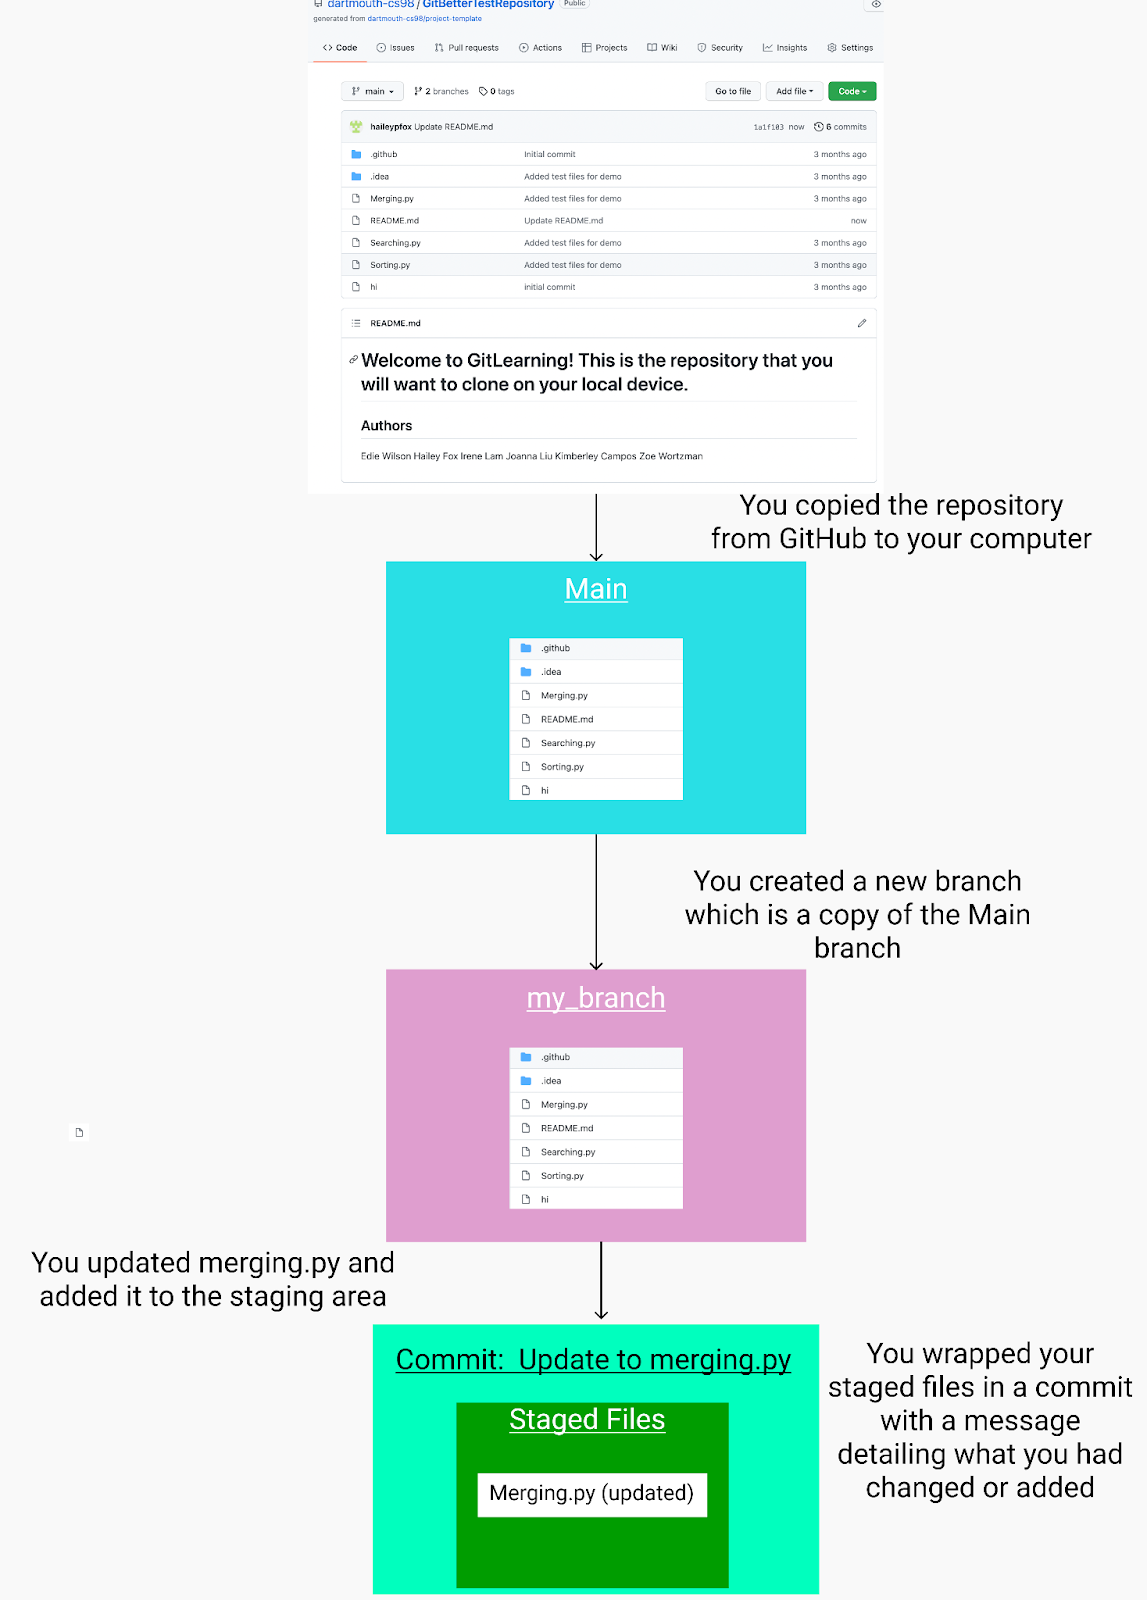
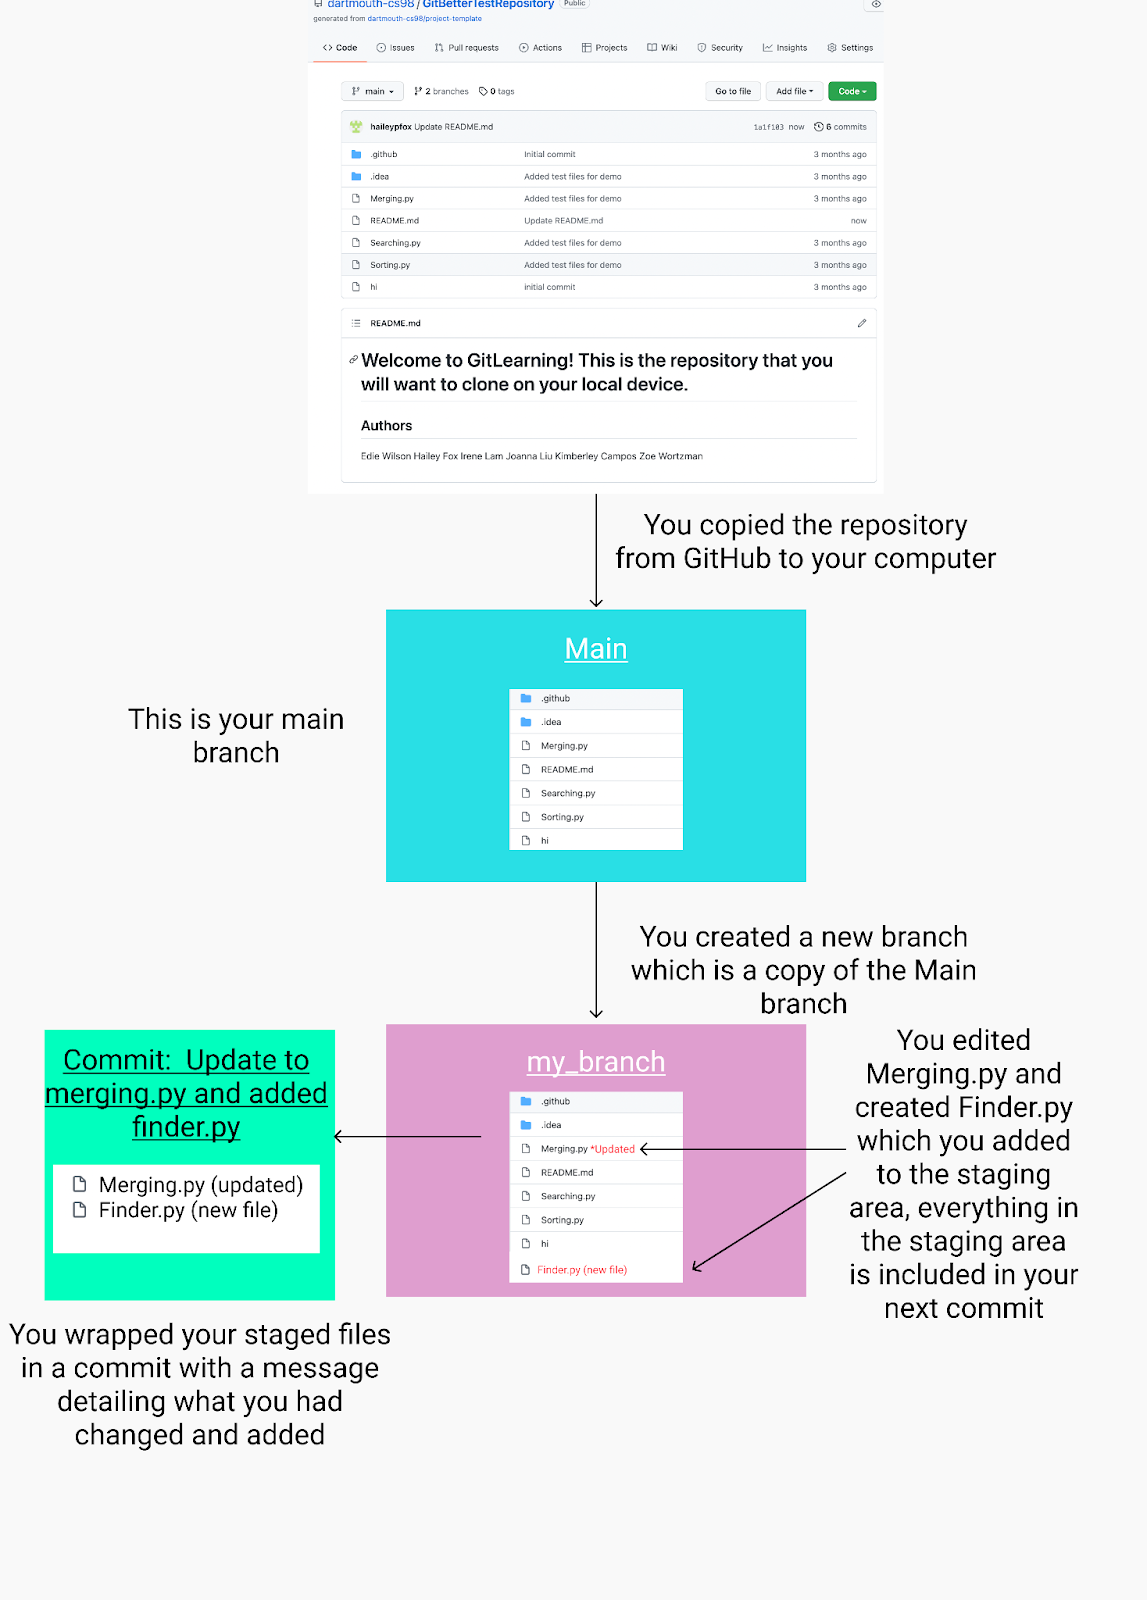
Fixed the visualizations even more

Changed region(s): [[0.0, 0.3125, 0.9765, 1.0], [0.1221, 0.4375, 0.3051, 0.5]]

diff --git a/src/components/Practice/TutorialHome.vue b/src/components/Practice/TutorialHome.vue
@@ -26,22 +26,22 @@ export default {
       responses: ['Run: git clone https://github.com/dartmouth-cs98/GitBetterTestRepository.git', 
       'Run: git checkout -b my_branch', 
       'Run: git branch',
-      'Run: git add merging.py',
-      "Run: git commit -m 'Update to merging.py'", 
+      'Run: git add finder.py',
+      "Run: git commit -m 'Update to merging.py and added finder.py'", 
       'Run: git log',
       'Run: git push',
       'Run: git checkout main', 
       'Run: git pull'],
       prompts: ["\nReady to start learning GitHub? \nGet started by cloning the repository that you see on the left.", 
-      "Now, create a new branch called my_branch.", 
+      "As seen, when you clone the repository, a main branch is created which is a copy of the GitHub repository. You want to create a different branch to work on. Create a new branch called my_branch.", 
       "You have just created a new branch. Run the git branch command to see all of the branches that you have as well as which branch you are on.",
-      "Now, assume that you have made some changes to the file merging.py. You will eventually want to add the updates you made to this file to the main branch. To do this, you need to add the file to the staging area. When you do this, GitHub essentially saves a copy of the file that you add with all of the changes you made.", 
-      "Once GitHub has created a snapshot of your updated merging.py file, you can wrap this snapshot into a commit which you can eventually push to the main branch. The commit is given a descriptive title that describes the new or updated files which it contains. Create a commit with the message: Update to merging.py", 
-      "You have just made a commit containing your staged files which are the files you want to push to the main branch. To see a list of all of the commits that you have made, run git log, which gives an overview of your activity.",
+      "Now, assume that you have made some changes to the file merging.py and added a new file called finder.py. You will eventually want to add these changes to the GitHub repository. When you make a new file that wasn't already in the codebase, you need to add it to the staging area. When you do this, GitHub essentially saves a copy of the file that you added and will use this when you eventually push your code to the GitHub repository.", 
+      "Once GitHub has created a snapshot of your new file finder.py, you can wrap this snapshot into a commit which you can eventually push to the GitHub repository. Any files that were already a part of the repository that you changed will be automatically included in this commit. The commit is given a descriptive title that describes the new or updated files which it contains. Create a commit with the message: Update to merging.py and added finder.py", 
+      "You have just made a commit containing your staged files which are the files you want to push to the GitHub repository. To see a list of all of the commits that you have made, run git log, which gives an overview of your activity.",
       "Now that you have made a commit, push this commit to the main branch so that your updates to the code can be integrated into the GitHub repository so everyone else can see them.", 
-      "Now, assume your changes were just approved. This means that you can merge your changes into the repository on GitHub. Once you do this, other users will run git pull to merge your updated code with theirs. Since your main branch is your copy of the GitHub repository, you need to move to your main branch so that you can pull the new changes. You can switch from one branch to another by running git checkout <name of branch you want to switch to>.",
-      "Now, run git pull so that the changes you made on 'my_branch' are merged into main.", 
-      "Success! You have just pulled the new changes from GitHub into your main branch. You will also run git pull whenever anyone else pushes code to the GitHub repository so that you can keep your branches up to date. These are the basic steps for using GitHub. You are now ready to begin trying on your own!"],
+      "Now, assume that the code you pushed to the GitHub repository was approved. This means that you can merge your changes into the repository on GitHub. Once you do this, other users will run git pull to merge your updated code with theirs. Since your main branch is your copy of the GitHub repository, you need to move to your main branch so that you can pull the new changes. You can switch from one branch to another by running git checkout <name of branch you want to switch to>.",
+      "You are now on your main branch. Now, run git pull so that the changes you made on 'my_branch' are merged into main.", 
+      "Success! You have just pulled the new changes from the GitHub repository into your main branch. You will also run git pull whenever anyone else pushes code to the GitHub repository so that you can keep your branches up to date. These are the basic steps for using GitHub. You are now ready to begin trying on your own!"],
       i: 0, 
       wrong: "Close! Keep trying :)", 
       source: "",

diff --git a/src/components/Visualizations/BeginnerViz.vue b/src/components/Visualizations/BeginnerViz.vue
@@ -29,19 +29,19 @@ export default {
         } else if (this.command == "git checkout -b my_branch") {
             this.source = require("../../assets/demo/begcheckoutnewbranch.png")
         } else if (this.command == "git branch") {
-            this.source = require("../../assets/demo/begbranch.png")
+            this.source = require("../../assets/demo/begbranchupdate.png")
         } else if (this.command == "git add merging.py") {
-            this.source = require("../../assets/demo/begadd.png")
-        } else if (this.command == "git commit -m 'Update to merging.py'") {
+            this.source = require("../../assets/demo/begaddupdate.png")
+        } else if (this.command == "git commit -m 'Update to merging.py and added finder.py'") {
             this.source = require("../../assets/demo/begcommitupdate.png")
         } else if (this.command == "git log") {
             this.source = require("../../assets/demo/beglogupdate.png")
         } else if (this.command == "git push") {
             this.source = require("../../assets/demo/begpushupdate.png")
         } else if (this.command == "git checkout main") {
-            this.source = require("../../assets/demo/begcheckoutmain.png")
+            this.source = require("../../assets/demo/begcheckoutmainupdate.png")
         } else if (this.command == "git pull") {
-            this.source = require("../../assets/demo/begpull.png")
+            this.source = require("../../assets/demo/begpullupdate.png")
         }
     }
   }
